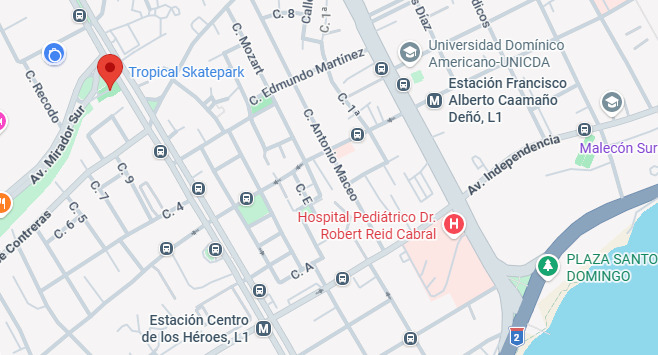
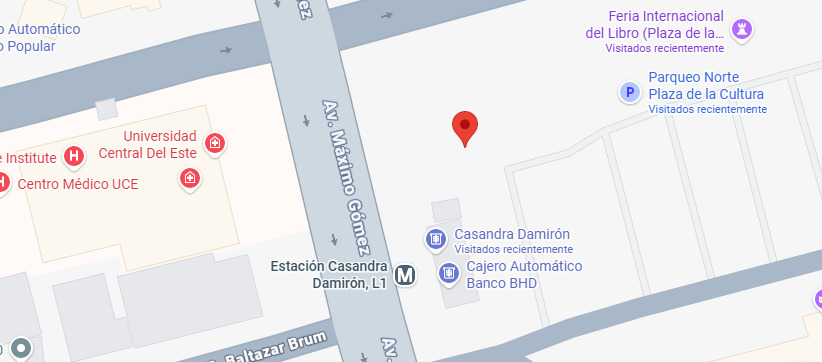
Nueva VERSION 2.2.1 | NUEVOS CAMBIOS, UBICACION Y JUECES.

diff --git a/app/page.tsx b/app/page.tsx
@@ -60,7 +60,7 @@ export default function Home() {
 
   const jueces = [
     { nombre: "H-OFER", ig: "mchoferrap" },
-    { nombre: "FELPA", ig: "felpadivo" },
+    { nombre: "???", ig: "" },
     { nombre: "JAVIER", ig: "javierreynoso20" },
   ];
 
@@ -1037,11 +1037,11 @@ export default function Home() {
                       <div className="mb-7">
 
                         <p className="text-xs text-gray-500 mb-3 text-center uppercase tracking-[0.2em]">
-                          📍 Tropical Skatepark • Mirador Sur
+                          📍 Al lado de la Estación del Metro Casandra Damirón
                         </p>
 
                         <a
-                          href="https://maps.app.goo.gl/YBgeMyMwmDQ6AqhE8"
+                          href="https://maps.app.goo.gl/RDw8cWd9wncq2xVGA"
                           target="_blank"
                           rel="noopener noreferrer"
                           className="block group"
@@ -1476,7 +1476,7 @@ export default function Home() {
                         Lugar
                       </p>
                       <p className="mt-1 text-xs font-black text-yellow-200">
-                        Mirador Sur
+                        Estación del Metro Casandra Damirón
                       </p>
                     </div>
                   </div>

diff --git a/app/layout.tsx b/app/layout.tsx
@@ -13,7 +13,7 @@ const geistMono = Geist_Mono({
 });
 
 export const metadata: Metadata = {
-  metadataBase: new URL("https://pila-de-rap.vercel.app"),
+  metadataBase: new URL("https://piladerap.vercel.app"),
 
   title: {
     default: "Pila de Rap | Freestyle RD",
@@ -26,11 +26,11 @@ export const metadata: Metadata = {
   openGraph: {
     title: "Pila de Rap",
     description: "La plaza sigue viva. Freestyle, barras y competencia real en RD.",
-    url: "https://pila-de-rap.vercel.app",
+    url: "https://piladerap.vercel.app",
     siteName: "Pila de Rap",
     images: [
       {
-        url: "https://pila-de-rap.vercel.app/api/og",
+        url: "https://piladerap.vercel.app/api/og",
         width: 1200,
         height: 630,
         alt: "Roster revelado de Pila de Rap",
@@ -45,7 +45,7 @@ export const metadata: Metadata = {
     title: "Pila de Rap",
     description:
       "Eventos de freestyle en RD. Próximo evento: 30 de mayo a las 3:00 PM.",
-    images: ["https://pila-de-rap.vercel.app/api/og"],
+    images: ["https://piladerap.vercel.app/api/og"],
   },
 
   icons: {
